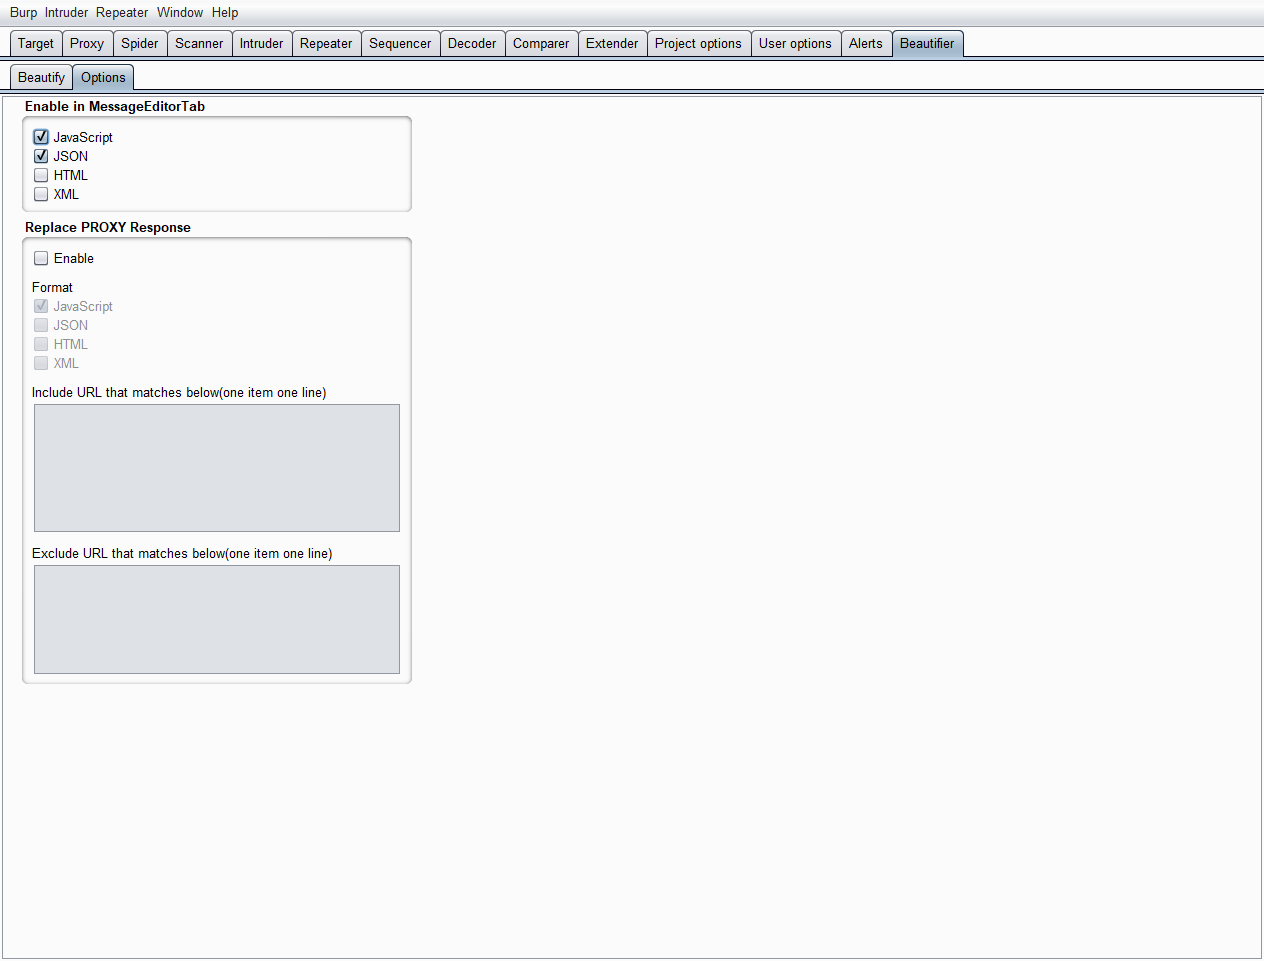
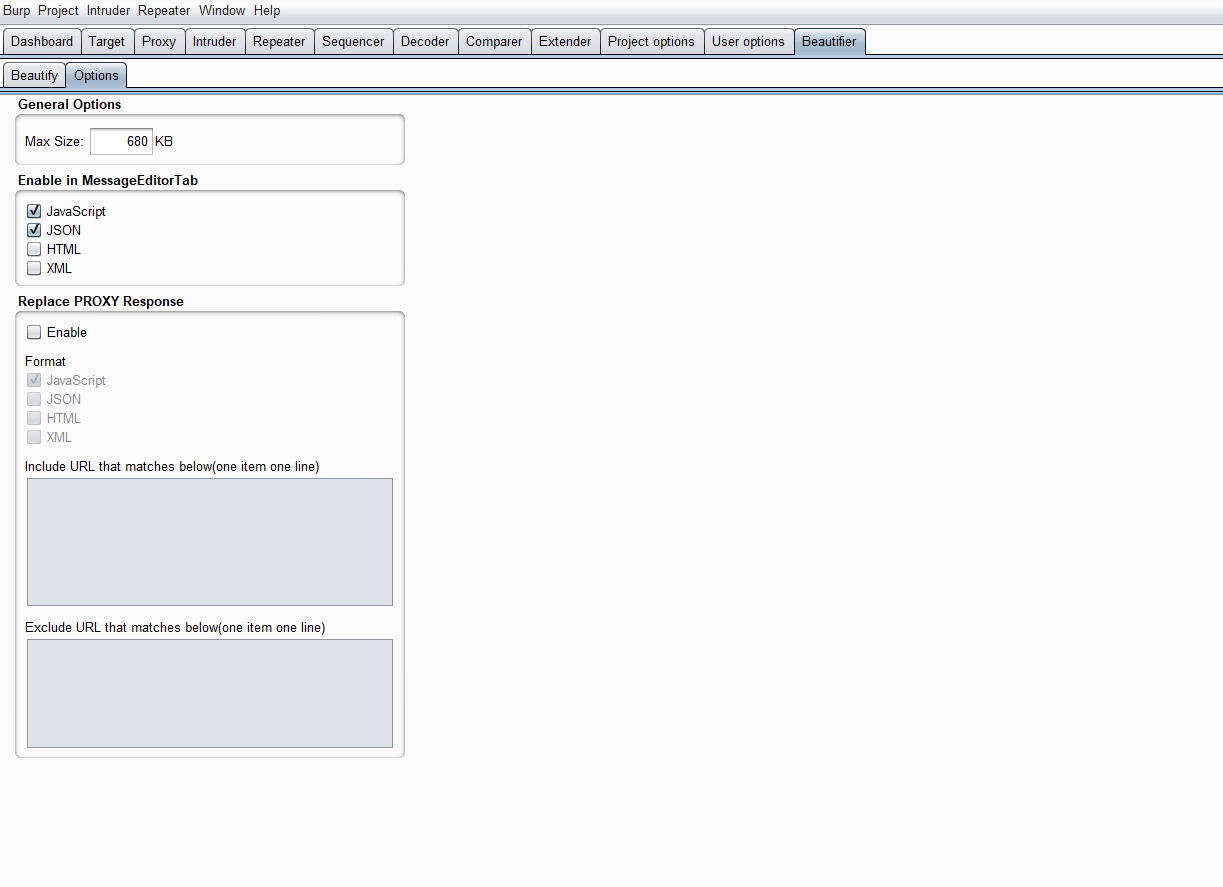
Update README.md

Changed region(s): [[0.0, 0.0, 1.0, 1.0]]

diff --git a/README.md b/README.md
@@ -2,10 +2,15 @@ BurpBeautifier is a Burpsuite extension for beautifying request/response body, s
 
 
 ### Installation
-(Assume you already have Burpsuite and Java Environment)
+Install from BApp:
+1. Visit [Jython Offical Site](https://www.jython.org/download), and download Jython Standalone jar file.
+2. Open Burpsuite, goto Extender -> Options -> Python Environment, set the Location of Jython Jar. And goto Extender -> BApp Store, find Burp Beautifier and install it.
+
+
+Manual Install:
 1. Visit [Jython Offical Site](https://www.jython.org/download), and download Jython Installer.
 2. Open Jython Installer to install Jython(In standard mode, make sure it will install pip). Assume it has be installed in `D:\jython2.7.1` directory.
-3. Install Jython modules: `D:\jython2.7.1\bin\jython.exe -m pip install -r requirements.txt`.(If your pip is not installed successfully, check this [article](https://www.jianshu.com/p/527aa4385ea1) I written in Chinese)
+3. Install Jython modules: `D:\jython2.7.1\bin\jython.exe -m pip install -r requirements.txt`.
 4. Open Burpsuite, goto Extender -> Options -> Python Environment, set the Location of Jython Jar is `D:\jython2.7.1\jython.jar`, and the Folder for loading modules is `D:\jython2.7.1`.
 5. Download this tool, Open Burpsuite, goto Extender -> Extensions -> Add -> Choose the beautifier.py.
 
@@ -16,12 +21,13 @@ MessageEditorTab:
 Standalone beautifier panel:
 ![beautifierTab](imgs/beautifierTab.png)
 
-Options:
+Options panel:
 ![options](imgs/options.png)
 
-### Options
-1. `Enable in MessageEditorTab`: By default, JavaScript and JSON is enable, and HTML and XML is disable cause Burpsuite already beautify these.
-2. `Replace PROXY Response`: Enable it if you want to beautify response and replace it.
+Options setting:
+1. `General Options`: Set Max Size of data that should be beautified.
+2. `Enable in MessageEditorTab`: By default, JavaScript and JSON is enable, and HTML and XML is disable cause Burpsuite already beautify these.
+3. `Replace PROXY Response`: Enable it if you want to beautify response and replace it.
 
 
 
@@ -34,13 +40,12 @@ Options:
 2. Writing in Jython, modify source code conveniently. eg: Modify the beautify function to change how to beautify.
 3. Beautify and replace response body.
 4. Option setting persistence.
-5. Send Resquest/Response body to Beautifier Panel
+5. Send Resquest/Response body to Beautifier Panel.
 
 ### Notice
 1. It may modify data, such as: beautifying xml will add the `<?xml version="1.0" encoding="UTF-8"?>` header, beautifying html will repair html tag.
-2. Assuming the request/response body is utf-8, so if the body is not utf8 encoding or compatible with utf8, it may not work well.
-3. Not considering gzip/deflate compress/decompress, so need the Proxy->Options->Miscellaneous->Unpack gzip/deflate in response is enabled (ON by default)
+2. It assume the request/response body is utf-8, so if the body is not utf8 encoding or compatible with utf8, it may not work well.
+3. Not considering gzip/deflate compress/decompress, so need the Proxy->Options->Miscellaneous->Unpack gzip/deflate in response is enabled(Enabled by default).
 
 ### Limitations
-1. Installation is not convenient. Not like extension writing in Java, just add a jar file.
-2. Jython is slow. So It will not beautify if size excess dataMaxSize(default is 680KB)
+1. Jython is slow. So It will not beautify if size excess dataMaxSize(default is 680KB).
